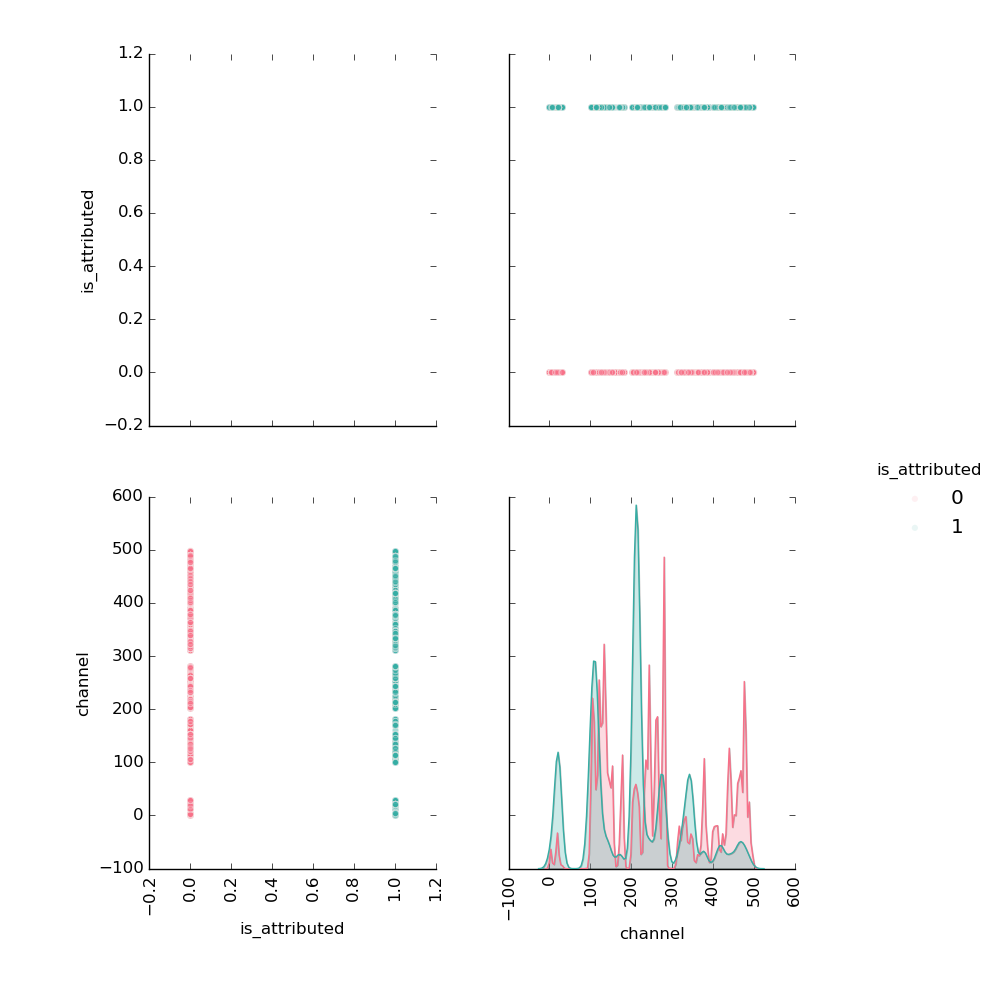
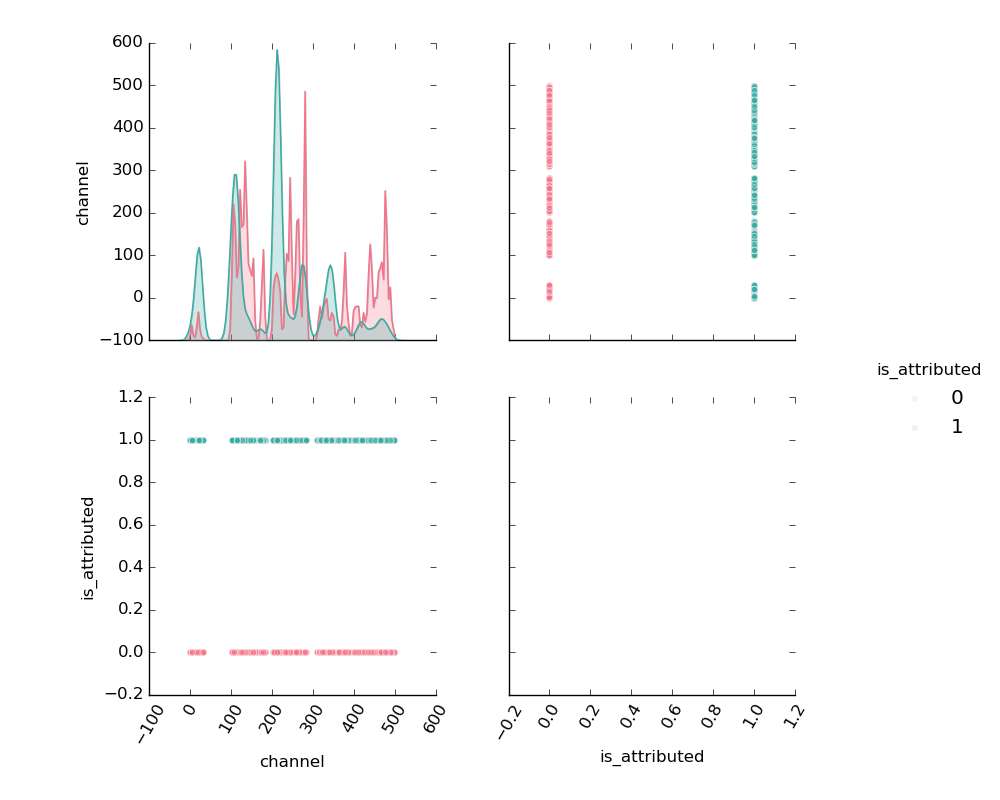
update

diff --git a/02_Preprocessing.py b/02_Preprocessing.py
@@ -10,20 +10,6 @@ import matplotlib.pyplot as plt
 import gc
 
 
-## Load data
-data = pd.read_csv("data/merge.csv", parse_dates=['click_time'])
-ip = pd.read_csv("blacklist/ip_black.csv")
-app = pd.read_csv("blacklist/app_black.csv")
-device = pd.read_csv("blacklist/device_black.csv")
-os = pd.read_csv("blacklist/os_black.csv")
-channel = pd.read_csv("blacklist/channel_black.csv")
-hour = pd.read_csv("blacklist/hour_black.csv")
-gc.collect()
-
-print(data.head())
-print(data.tail())
-
-
 ##    
 def merge_black(feat):
     df = pd.read_csv('data/merge_' + feat + '.csv')
@@ -43,13 +29,9 @@ def merge_black(feat):
         temp = df[name].reset_index()
         temp.to_csv('data/merge_' + name + '.csv', index=False, columns=['index', name])
         temp.head()
-    
-merge_black('ip')
-merge_black('app')
-merge_black('device')
-merge_black('os')
-merge_black('channel')
-merge_black('hour')
+
+for feat in ['ip', 'app', 'device', 'os', 'channel', 'hour']:
+    merge_black(feat)    
 
 
 # Make a derived variable : click_gap
@@ -95,6 +77,10 @@ data.head()
 data.to_csv('merged_click_gap.csv', index=False)
 
 
+##
+
+
+
 ## Divid data
 del data['click_time']
 gc.collect()
@@ -128,10 +114,29 @@ for n in [10000000, 20000000,30000000,40000000,50000000]:
 
 
 ##
-def scatter_plot(feat, file_name):
-    temp = train[feat]
+def scatter_plot(feat):
+    x = pd.read_csv('data/merge_gap_' + feat + '.csv')
+    y = pd.read_csv('data/merge_black_' + feat + '.csv')
+    z = pd.read_csv('data/merge_rate_' + feat + '.csv')
+    h = pd.read_csv('data/merge_is_attributed.csv')
     
-    g = sns.pairplot(temp, 
+    temp = x.merge(y, on='index', how='left')
+    del x
+    
+    temp = temp.merge(z, on='index', how='left')
+    del y
+    
+    temp = temp.merge(h, on='index', how='left')
+    del z
+    
+    temp = temp.iloc[:184903890]
+    del temp['index']
+    
+    gc.collect()
+    
+    name = ['gap_' + feat, 'black_' + feat, 'rate_' + feat]
+    g = sns.pairplot(temp,
+                     vars=name,
                      hue='is_attributed', 
                      palette="husl",
                      plot_kws={'alpha':0.1})
@@ -141,24 +146,12 @@ def scatter_plot(feat, file_name):
             label.set_rotation(60)
     
     g.fig.set_size_inches(10,8)
-    plt.savefig('graph/'+file_name+'2.png')
+    plt.savefig('graph/scatter_plot_blck_'+feat+'.png')
     plt.show()
     gc.collect()
 
-feat = ['is_attributed', 'gap_ip', 'black_ip']
-scatter_plot(feat, 'scatter_plot_gap_black_ip')
-
-feat = ['is_attributed', 'gap_app', 'black_app']
-scatter_plot(feat, 'scatter_plot_gap_black_app')
-
-feat = ['is_attributed', 'gap_device', 'black_device']
-scatter_plot(feat, 'scatter_plot_gap_black_device')
-
-feat = ['is_attributed', 'gap_os', 'black_os']
-scatter_plot(feat, 'scatter_plot_gap_black_os')
-
-feat = ['is_attributed', 'gap_channel', 'gap_hour']
-scatter_plot(feat, 'scatter_plot_gap_channel_hour')
+for f in ['ip', 'app', 'device', 'os', 'channel', 'hour']:
+    scatter_plot(f)
 
 
 ## check correlation

diff --git a/01_EDA.py b/01_EDA.py
@@ -236,12 +236,19 @@ def make_black_list(v):
     temp.to_csv('blacklist/' + v + '_black.csv', index=False)
     return temp
 
-ip = make_black_list('ip')              # count : 132,723
-app = make_black_list('app')            # count : 267
-device = make_black_list('device')      # count : 544
-os = make_black_list('os')              # count : 252
-channel = make_black_list('channel')    # count : 98
-hour = make_black_list('hour')          # count : 7
+ip = make_black_list('ip')              # black list count : 132,723
+app = make_black_list('app')            # black list count : 267
+device = make_black_list('device')      # black list count : 544
+os = make_black_list('os')              # black list count : 252
+channel = make_black_list('channel')    # black list count : 98
+hour = make_black_list('hour')          # black list count : 7
+
+print('ip count : ', len(ip))           # 333,168
+print('app count : ', len(app))         # 730
+print('device count : ', len(device))   # 3,799
+print('os count : ', len(os))           # 856
+print('channel count : ', len(channel)) # 202
+print('hour count : ', len(hour))       # 24
 
 
 ## Draw bar graphs
